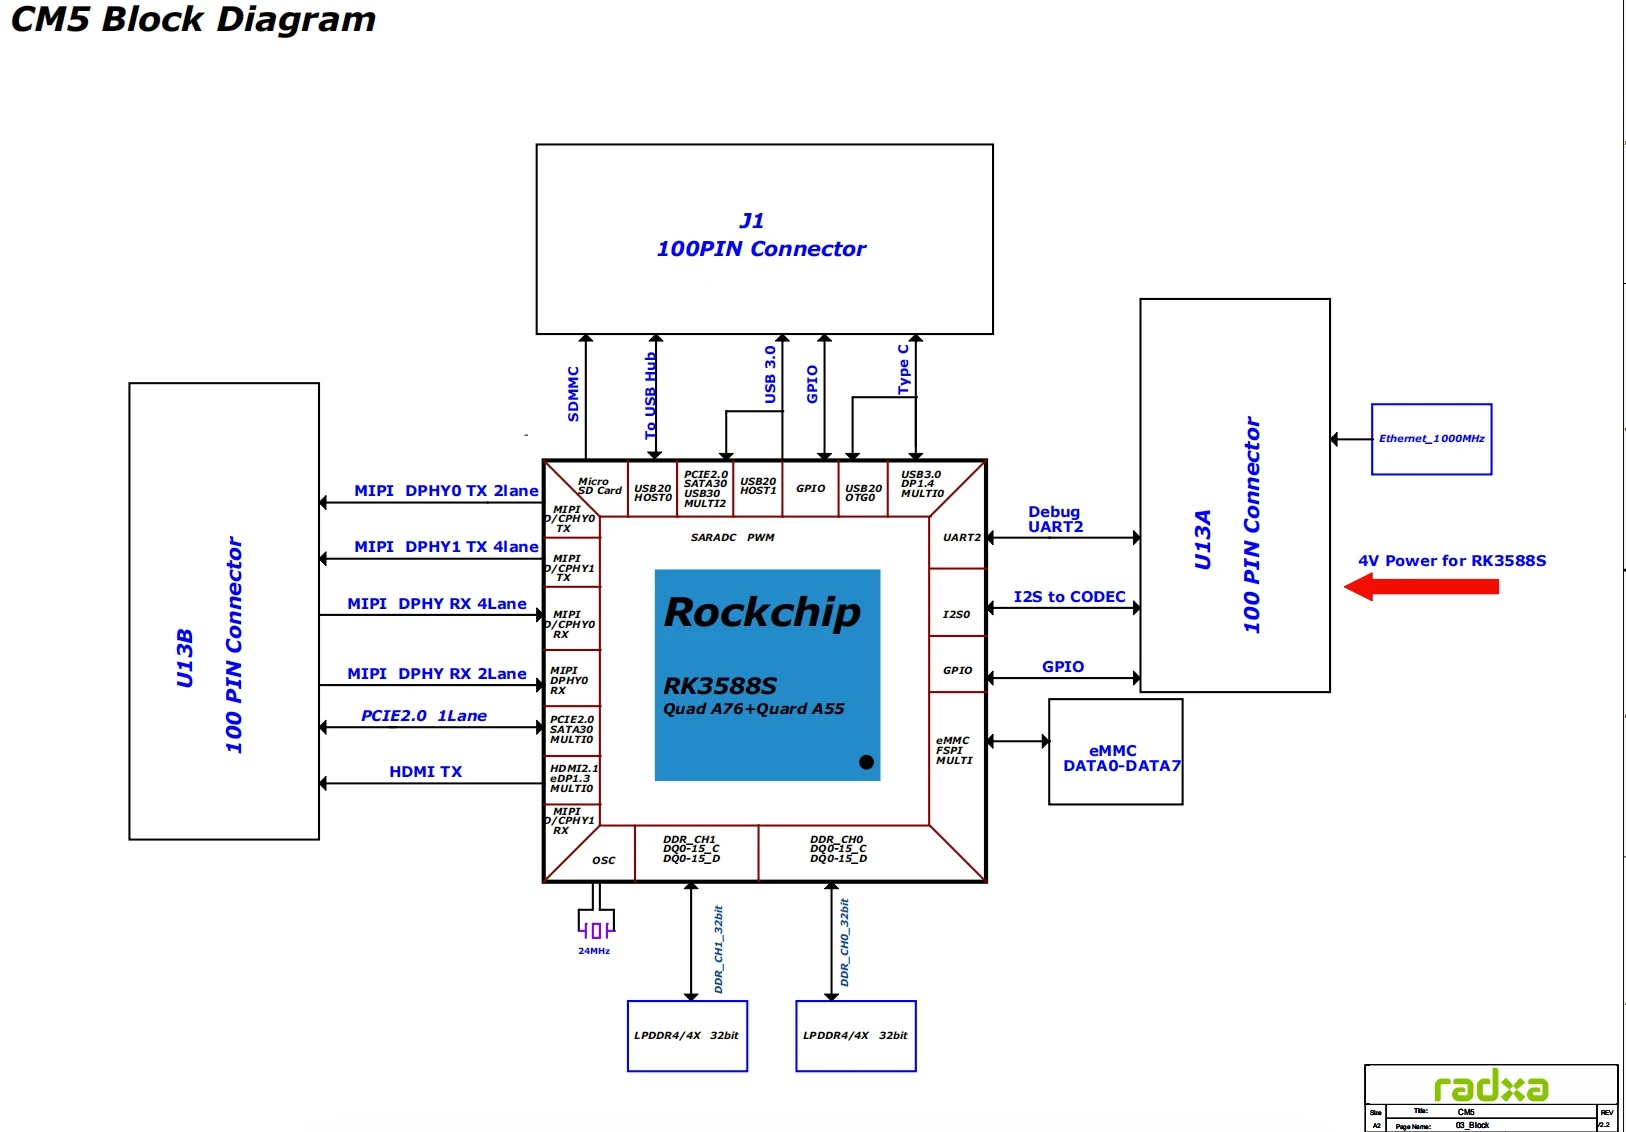
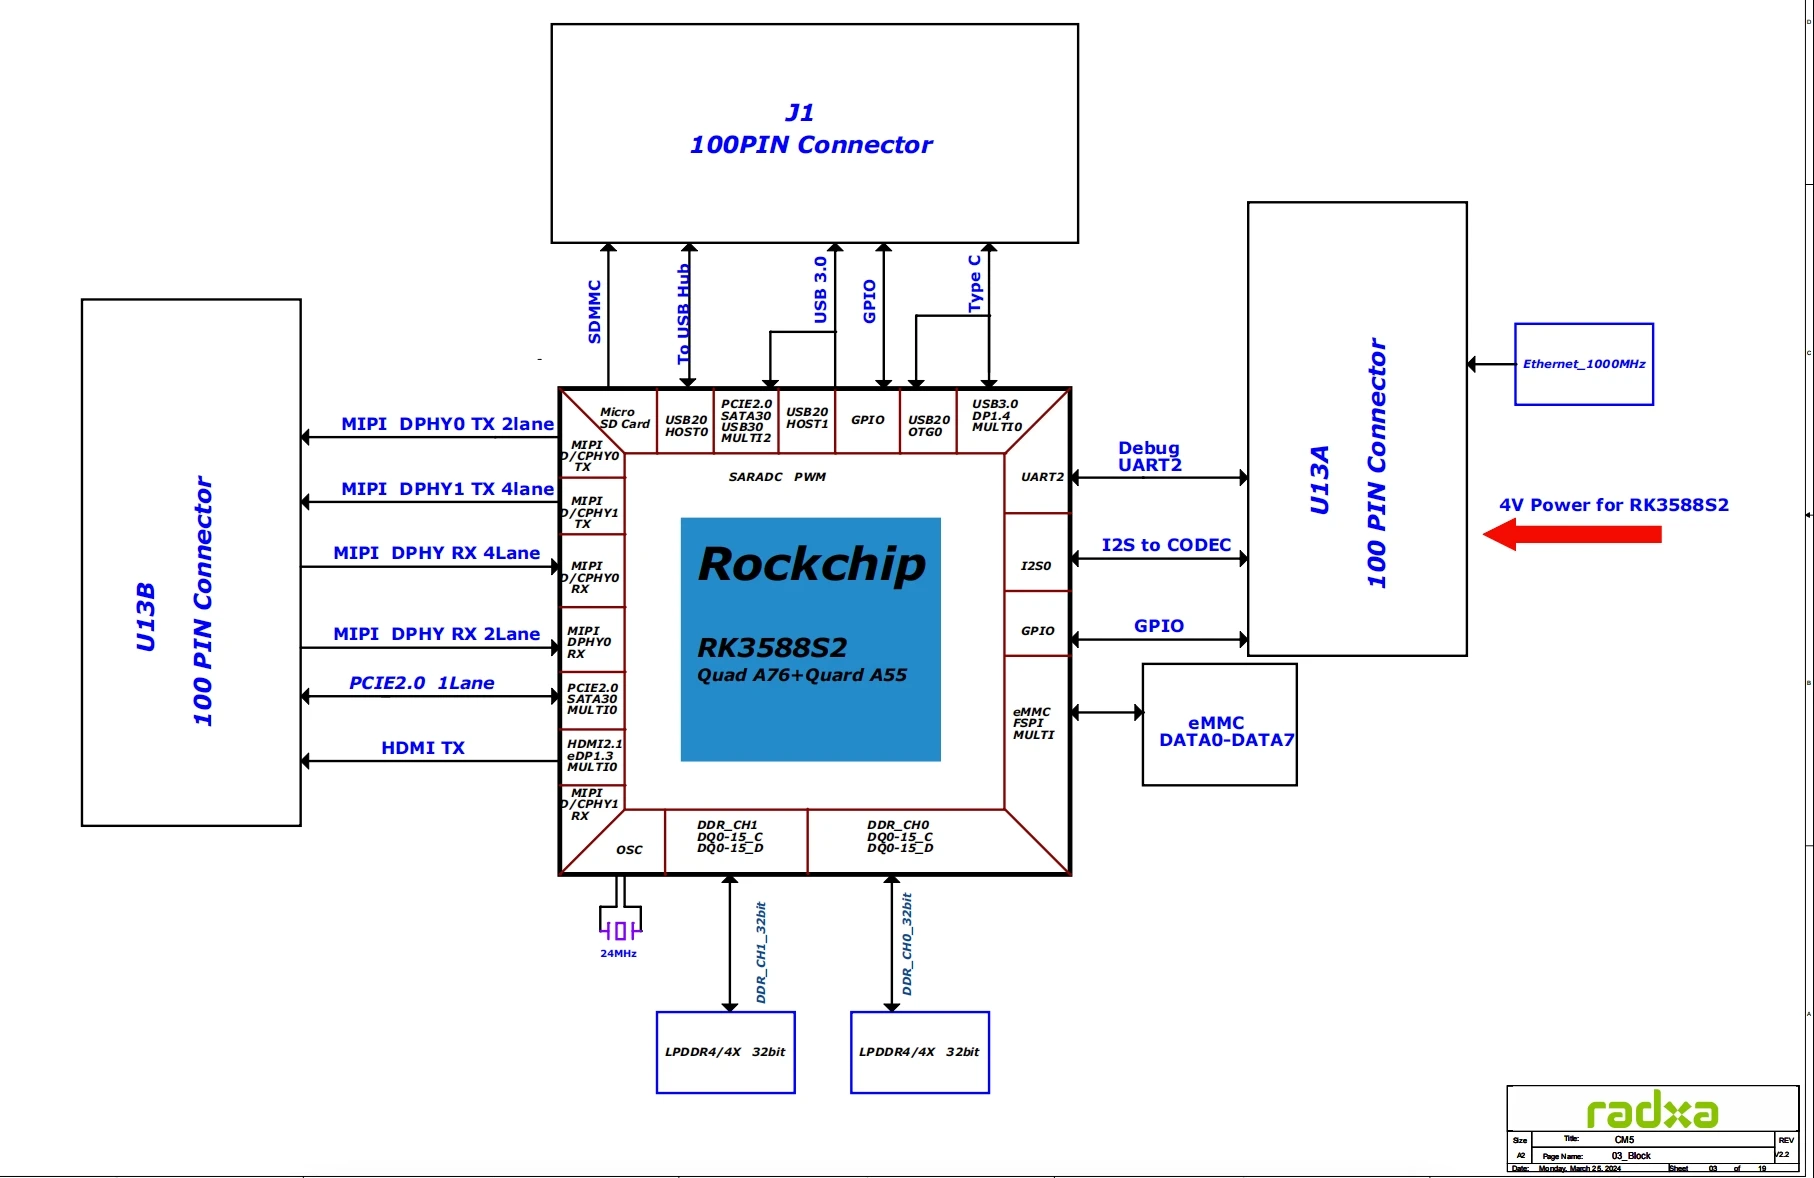
update cm5 README CPU info

diff --git a/docs/compute-module/cm5/getting-started/overview.md b/docs/compute-module/cm5/getting-started/overview.md
@@ -12,7 +12,7 @@ sidebar_position: 1
 
 | 特征     | 描述                                                                                                                                                                                                                                                                                                                                                                        |
 | -------- | --------------------------------------------------------------------------------------------------------------------------------------------------------------------------------------------------------------------------------------------------------------------------------------------------------------------------------------------------------------------------- |
-| SoC      | Rockchip RK3588S                                                                                                                                                                                                                                                                                                                                                            |
+| SoC      | Rockchip RK3588S2                                                                                                                                                                                                                                                                                                                                                            |
 | CPU      | 四核 Cortex®‑A76 @ 2.2~2.4GHz and 四核 Cortex®‑A55 @ 1.8GHz<br/>based on Arm® DynamIQ™ configuration                                                                                                                                                                                                                                                                    |
 | GPU      | ARM Mali G610MP4 GPU ‑ OpenGL® ES1.1, ES2.0, and ES3.2 ‑ OpenCL®<br/>1.1, 1.2 and 2.2 ‑ Vulkan® 1.1 and 1.2 ‑ Embedded high performance 2D<br/>image acceleration module                                                                                                                                                                                                 |
 | NPU      | NPU 支持格式 INT4 / INT8 / INT16 / FP16 / BF16 and TF32 <br/> 算力最高可达 6TOPs@INT8                                                                                                                                                                                                                                                                                       |

diff --git a/i18n/en/docusaurus-plugin-content-docs/current/compute-module/cm5/getting-started/overview.md b/i18n/en/docusaurus-plugin-content-docs/current/compute-module/cm5/getting-started/overview.md
@@ -12,7 +12,7 @@ sidebar_position: 1
 
 | Features     | Description                                                                                                                                                                                                                                                                                                                                                  |
 | ------------ | ------------------------------------------------------------------------------------------------------------------------------------------------------------------------------------------------------------------------------------------------------------------------------------------------------------------------------------------------------------ |
-| SoC          | Rockchip RK3588S                                                                                                                                                                                                                                                                                                                                             |
+| SoC          | Rockchip RK3588S2                                                                                                                                                                                                                                                                                                                                             |
 | CPU          | Quad Cortex®‑A76 @ 2.2~2.4GHz and Quad Cortex®‑A55 @ 1.8GHz<br/>based on Arm® DynamIQ™ configuration                                                                                                                                                                                                                                                     |
 | GPU          | ARM Mali G610MP4 GPU ‑ OpenGL® ES1.1, ES2.0, and ES3.2 ‑ OpenCL®<br/>1.1, 1.2 and 2.2 ‑ Vulkan® 1.1 and 1.2 ‑ Embedded high performance 2D<br/>image acceleration module                                                                                                                                                                                  |
 | NPU          | NPU supporting INT4 / INT8 / INT16 / FP16 / BF16 and TF32 acceleration<br/>and computing power is up to 6TOPs                                                                                                                                                                                                                                                |

diff --git a/docs/compute-module/cm5/README.md b/docs/compute-module/cm5/README.md
@@ -20,7 +20,7 @@ Radxa CM5 是基于 Rockchip RK3588S 片上系统 (SoC) 的系统模块 (SoM)。
 
 | Features | Description                                                                                                                                                                   |
 | -------- | ----------------------------------------------------------------------------------------------------------------------------------------------------------------------------- |
-| SoC      | Rockchip RK3588S                                                                                                                                                              |
+| SoC      | Rockchip RK3588S2                                                                                                                                                             |
 | CPU      | Quad Cortex®‑A76 @ 2.2~2.4GHz and a quad Cortex®‑A55 @ 1.8GHz<br/>based on Arm® DynamIQ™ configuration                                                                    |
 | GPU      | Arm Mali™ G610MP4 GPU ‑ OpenGL® ES1.1, ES2.0, and ES3.2 ‑ OpenCL®<br/>1.1, 1.2 and 2.2 ‑ Vulkan® 1.1 and 1.2 ‑ Embedded high performance 2D<br/>image acceleration module |
 | NPU      | NPU supporting INT4 / INT8 / INT16 / FP16 / BF16 and TF32 acceleration<br/>and computing power is up to 6TOPs                                                                 |
